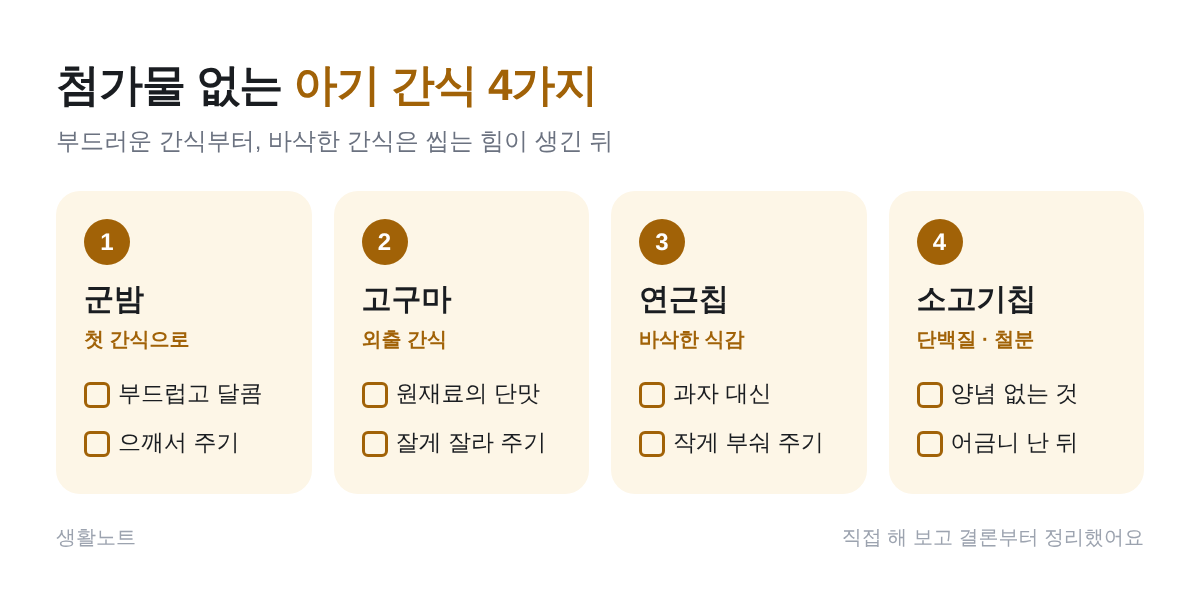
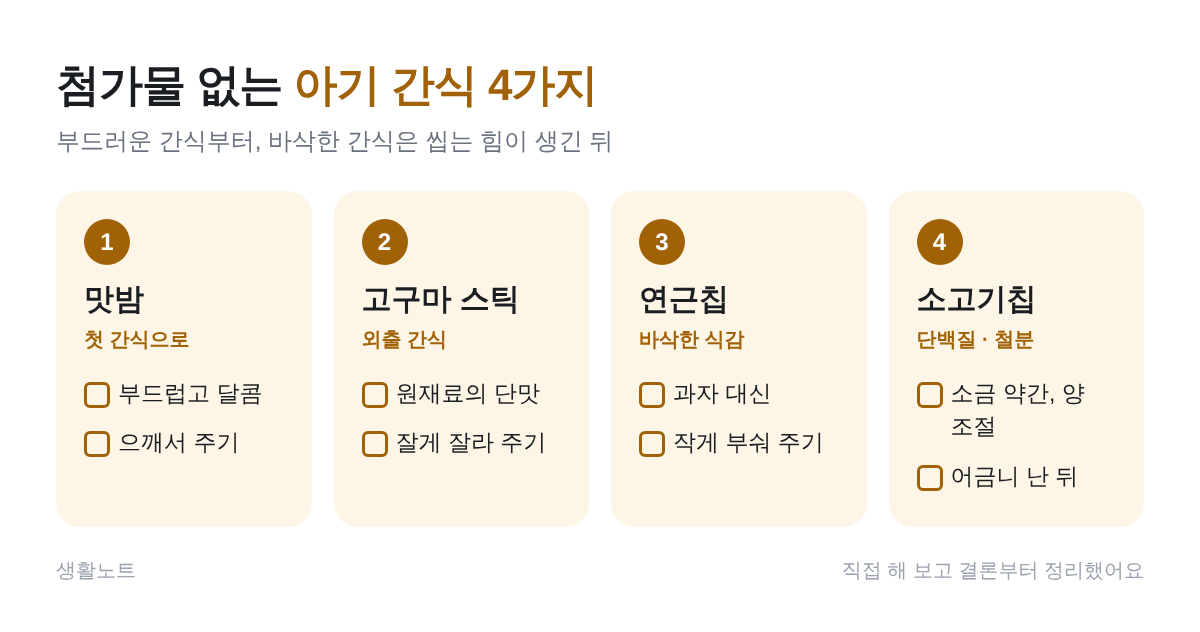
아기 간식 글: 맛밤·고구마 스틱 이름 수정, 현미유 삭제, 소고기칩 소금 안내, 맛밤·고구마 그림 추가
Claude-Session: https://claude.ai/code/session_01A6kydks4rf79zYLXYWZ6Pq

diff --git a/content/posts/no-additive-korean-baby-snacks.md b/content/posts/no-additive-korean-baby-snacks.md
@@ -1,6 +1,6 @@
 ---
-title: "첨가물 없는 아기 간식 추천: 국내산 원재료 고르는 법과 군밤·고구마·연근칩·소고기칩"
-description: "설탕, 소금, 향료 없이 원재료만 넣은 아기 간식을 찾고 있다면? 성분표에서 꼭 볼 4가지, 월령별로 주는 방법, 엄마가 골라 본 군밤·고구마·연근칩·소고기칩 간식을 정리했어요."
+title: "첨가물 없는 아기 간식 추천: 국내산 원재료 고르는 법과 맛밤·고구마 스틱·연근칩·소고기칩"
+description: "설탕, 소금, 향료 없이 원재료만 넣은 아기 간식을 찾고 있다면? 성분표에서 꼭 볼 4가지, 월령별로 주는 방법, 엄마가 골라 본 맛밤·고구마 스틱·연근칩·소고기칩 간식을 정리했어요."
 cover: /images/posts/no-additive-korean-baby-snacks/cover.jpg
 category: parenting
 tags: [아기간식추천, 무첨가아기간식, 국내산아기간식, 돌아기간식, 유아간식]
@@ -8,8 +8,8 @@ date: 2026-10-26
 summary:
   - "아기 간식은 원재료가 1~2가지뿐이고, 설탕·소금·향료가 없는 걸 골라요."
   - "성분표에서 원재료명, 원산지, 첨가물, 권장 월령 네 가지만 보면 돼요."
-  - "군밤과 고구마는 부드럽고 자연스럽게 달아서 처음 간식으로 좋아요."
-  - "연근칩, 소고기칩처럼 바삭하고 단단한 간식은 씹는 힘이 생긴 뒤 작게 잘라서 줘요."
+  - "맛밤과 고구마 스틱은 부드럽고 자연스럽게 달아서 처음 간식으로 좋아요."
+  - "연근칩, 소고기칩처럼 바삭하고 단단한 간식은 씹는 힘이 생긴 뒤 작게 잘라서 줘요. 소고기칩은 소금이 조금 들어 있어 양을 조절해요."
 faq:
   - q: "아기 간식은 언제부터 줄 수 있나요?"
     a: "보통 이유식이 자리 잡는 시기(생후 6~8개월 이후)부터 입에서 잘 녹는 간식을 조금씩 시작해요. 간식은 식사를 대신하는 게 아니라 식사 사이 1~2번, 적은 양을 주는 게 기본이에요. 시작 시기는 아이 발달에 따라 다르니 다니는 소아과와 상담해 주세요."
@@ -22,11 +22,11 @@ faq:
   - q: "꿀이나 시럽으로 단맛을 낸 간식은요?"
     a: "꿀은 돌 전 아기에게 보툴리누스균 위험이 있어 주면 안 돼요. 시럽, 올리고당 같은 첨가 당류도 어릴수록 피하는 게 좋아요. 고구마, 밤처럼 원재료 자체의 단맛이면 충분해요."
 products:
-  - name: "군밤 (깐 밤)"
+  - name: "맛밤"
     note: "부드럽고 달콤해서 첫 간식으로, 으깨서 주세요"
     url: "https://link.coupang.com/a/h71fthWOmO"
     store: coupang
-  - name: "고구마 간식"
+  - name: "고구마 스틱"
     note: "원재료 자체의 단맛, 외출용으로 좋아요"
     url: "https://link.coupang.com/a/h9C5pg8Go8"
     store: coupang
@@ -35,12 +35,12 @@ products:
     url: "https://link.coupang.com/a/h9DjTajEg8"
     store: coupang
   - name: "목초우 소고기칩"
-    note: "단백질·철분 간식, 원산지는 상세 페이지에서 확인"
+    note: "단백질·철분 간식, 소금이 조금 들어 있어 돌 이후 조금씩"
     url: "https://link.coupang.com/a/h9DncLPIia"
     store: coupang
 ---
 
-**결론부터 말하면, 아기 간식은 '원재료 1~2가지 + 국내산 + 설탕·소금·향료 없음' 이 세 가지만 지키면 실패가 적어요.** 처음엔 군밤이나 고구마처럼 부드럽고 자연스럽게 단 간식으로 시작하고, 씹는 힘이 생기면 연근칩이나 소고기칩 같은 바삭한 간식을 작게 부숴서 줘요.
+**결론부터 말하면, 아기 간식은 '원재료 1~2가지 + 국내산 + 설탕·소금·향료 없음' 이 세 가지만 지키면 실패가 적어요.** 처음엔 맛밤이나 고구마 스틱처럼 부드럽고 자연스럽게 단 간식으로 시작하고, 씹는 힘이 생기면 연근칩이나 소고기칩 같은 바삭한 간식을 작게 부숴서 줘요.
 
 아기 간식을 사러 가면 "유기농", "무첨가" 같은 문구가 가득해서 오히려 고르기 어려워요. 저는 앞면 문구 대신 **뒷면 성분표**만 보고 고르기 시작하면서 훨씬 쉬워졌어요. 그 기준과 함께, 이 기준으로 골라 본 간식 4가지를 정리했어요.
 
@@ -52,7 +52,7 @@ products:
 
 | 확인할 것 | 이렇게 보면 돼요 |
 | --- | --- |
-| 원재료명 | **1~2가지**가 가장 좋아요. 예: "고구마 100%", "연근, 현미유" |
+| 원재료명 | **1~2가지**가 가장 좋아요. 예: "고구마 100%", "연근 100%" |
 | 원산지 | "국내산"인지 확인해요. 재료마다 원산지가 다를 수 있어요 |
 | 첨가물 | 설탕, 올리고당, 소금, 향료, 보존료, 색소가 **없는지** 봐요 |
 | 권장 월령 | "12개월 이상"처럼 적힌 월령보다 어린 아기에겐 주지 않아요 |
@@ -64,25 +64,29 @@ products:
 | 시기 | 추천 간식 형태 | 주의할 점 |
 | --- | --- | --- |
 | 6~12개월 | 입에서 녹는 떡뻥, 으깬 밤, 찐 고구마 | 소금·꿀 금지, 처음엔 아주 조금 |
-| 12~24개월 | 고구마 말랭이(작게 잘라서), 부드러운 칩 | 한 번에 손바닥 반 정도 양 |
-| 24개월 이후 | 연근칩, 소고기칩 같은 바삭한 간식 | 앉아서 먹기, 어른이 지켜보기 |
+| 12~24개월 | 고구마 스틱(작게 잘라서), 부드러운 칩 | 한 번에 손바닥 반 정도 양 |
+| 24개월 이후 | 연근칩, 소고기칩 같은 바삭한 간식 | 앉아서 먹기, 소금이 든 간식은 양 줄이기 |
 
 간식은 **식사 사이에 하루 1~2번**, 다음 끼니에 지장이 없을 만큼만 줘요. 간식을 많이 먹으면 밥을 덜 먹게 돼요.
 
 ## 추천 간식 4가지
 
-![첨가물 없는 아기 간식 4가지: 군밤, 고구마, 연근칩, 목초우 소고기칩](/images/posts/no-additive-korean-baby-snacks/snacks.png)
+![첨가물 없는 아기 간식 4가지: 맛밤, 고구마 스틱, 연근칩, 목초우 소고기칩](/images/posts/no-additive-korean-baby-snacks/snacks.png)
 
-### 1. 군밤: 처음 간식으로 가장 무난해요
+### 1. 맛밤: 처음 간식으로 가장 무난해요
 
-- **좋은 점**: 껍질을 깐 군밤은 부드럽고 자연스럽게 달아서 아기들이 잘 먹어요. 탄수화물과 식이섬유가 있어 든든해요.
+![껍질을 까서 구운 맛밤 아기 간식](/images/posts/no-additive-korean-baby-snacks/chestnut.png)
+
+- **좋은 점**: 껍질을 까서 구운 맛밤은 부드럽고 자연스럽게 달아서 아기들이 잘 먹어요. 탄수화물과 식이섬유가 있어 든든해요.
 - **주는 법**: 돌 전후에는 **포크로 으깨서**, 두 돌 이후에는 4등분 정도로 작게 잘라 줘요. 통째로 주면 목에 걸릴 수 있어요.
 - **고를 때**: 원재료가 "밤"만 있는지 보고, 설탕이나 시럽에 조린 제품은 피해요.
 
-### 2. 고구마: 외출 간식으로 최고예요
+### 2. 고구마 스틱: 외출 간식으로 최고예요
 
-- **좋은 점**: 고구마는 따로 단맛을 넣지 않아도 달아서 아이 입맛에 잘 맞아요. 말랭이나 스틱 형태는 들고 다니기 편해요.
-- **주는 법**: 말랭이는 생각보다 질겨요. 어릴수록 **잘게 잘라서** 주고, 처음엔 물과 함께 줘요.
+![고구마만 말려 만든 고구마 스틱 아기 간식](/images/posts/no-additive-korean-baby-snacks/sweetpotato.png)
+
+- **좋은 점**: 고구마는 따로 단맛을 넣지 않아도 달아서 아이 입맛에 잘 맞아요. 스틱 형태라 들고 다니며 하나씩 주기 편해요.
+- **주는 법**: 말린 고구마 스틱은 생각보다 질겨요. 어릴수록 **잘게 잘라서** 주고, 처음엔 물과 함께 줘요.
 - **고를 때**: "고구마 100%" 국내산 제품이 많아요. 올리고당을 바른 제품이 있으니 성분표를 확인해요.
 
 ### 3. 연근칩: 바삭한 식감을 좋아하는 아이에게
@@ -95,7 +99,8 @@ products:
 
 - **좋은 점**: 소고기를 얇게 말린 간식이라 단백질과 철분을 간식으로도 챙길 수 있어요. 목초를 먹여 키운 소(목초우)를 쓴 제품이 많아요.
 - **주는 법**: 질긴 편이라 **어금니가 난 뒤** 아주 작게 찢어서 줘요.
-- **고를 때**: 간장, 설탕으로 양념한 육포와는 달라요. **양념 없이 고기만** 들어갔는지 확인해요. 목초우는 수입산인 경우가 많아서, 국내산을 원하면 원산지를 꼭 확인해요.
+- **알아 둘 점**: 제가 고른 목초우 소고기칩은 **소금이 조금 들어 있어요.** 그래서 4가지 중에서는 가장 늦게, 돌 이후에 조금씩만 줘요. 간장, 설탕으로 양념한 육포보다는 훨씬 담백하지만, 짠 간식이 겹치지 않게 그날 식사 간도 싱겁게 맞춰 주세요.
+- **고를 때**: 원재료가 소고기와 소금 정도로 단순한지 보고, 목초우는 수입산인 경우가 많아서 국내산을 원하면 원산지를 꼭 확인해요.
 
 ## 이런 간식은 피하세요
 
@@ -113,8 +118,8 @@ products:
 정리하면 이렇게 기억하면 돼요.
 
 1. 성분표에서 **원재료 1~2가지, 국내산, 첨가물 없음**을 확인한다.
-2. 처음엔 **군밤, 고구마**처럼 부드러운 간식부터.
-3. **연근칩, 소고기칩**은 씹는 힘이 생긴 뒤 작게 부숴서.
+2. 처음엔 **맛밤, 고구마 스틱**처럼 부드러운 간식부터.
+3. **연근칩, 소고기칩**은 씹는 힘이 생긴 뒤 작게 부숴서. 소금이 든 소고기칩은 양을 적게.
 4. 간식은 **하루 1~2번, 앉아서, 어른이 지켜보며**.
 
 간식을 바꾸는 시기에 쪽쪽이 습관도 함께 고민된다면 [쪽쪽이 끊는 시기와 방법](/posts/pacifier-weaning-age-how-to)도 참고해 보세요.
